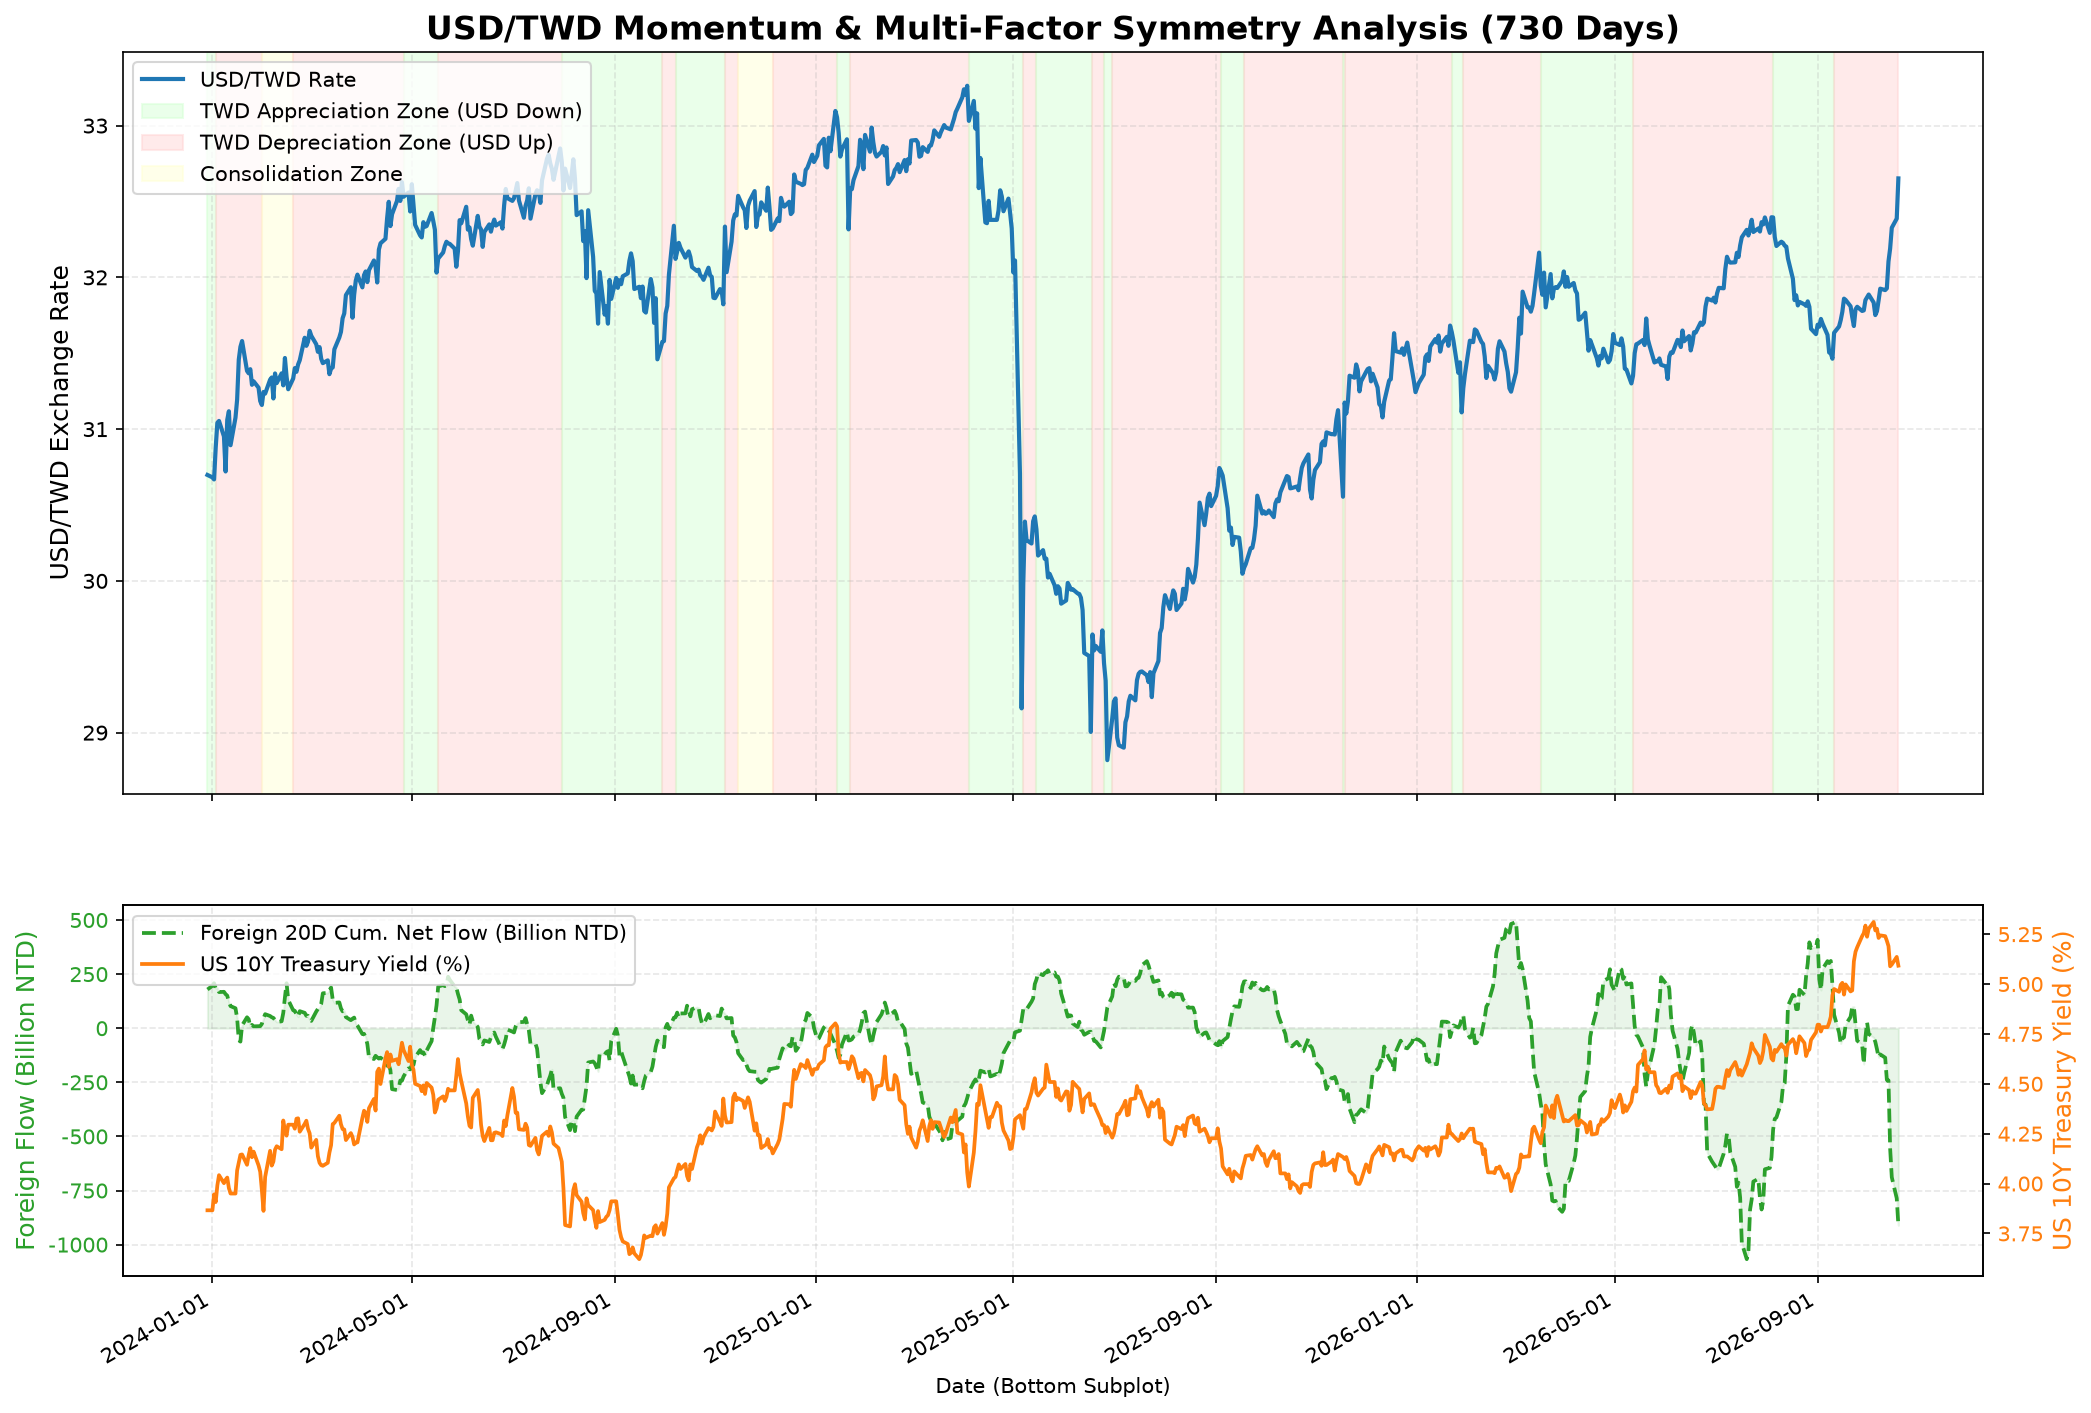
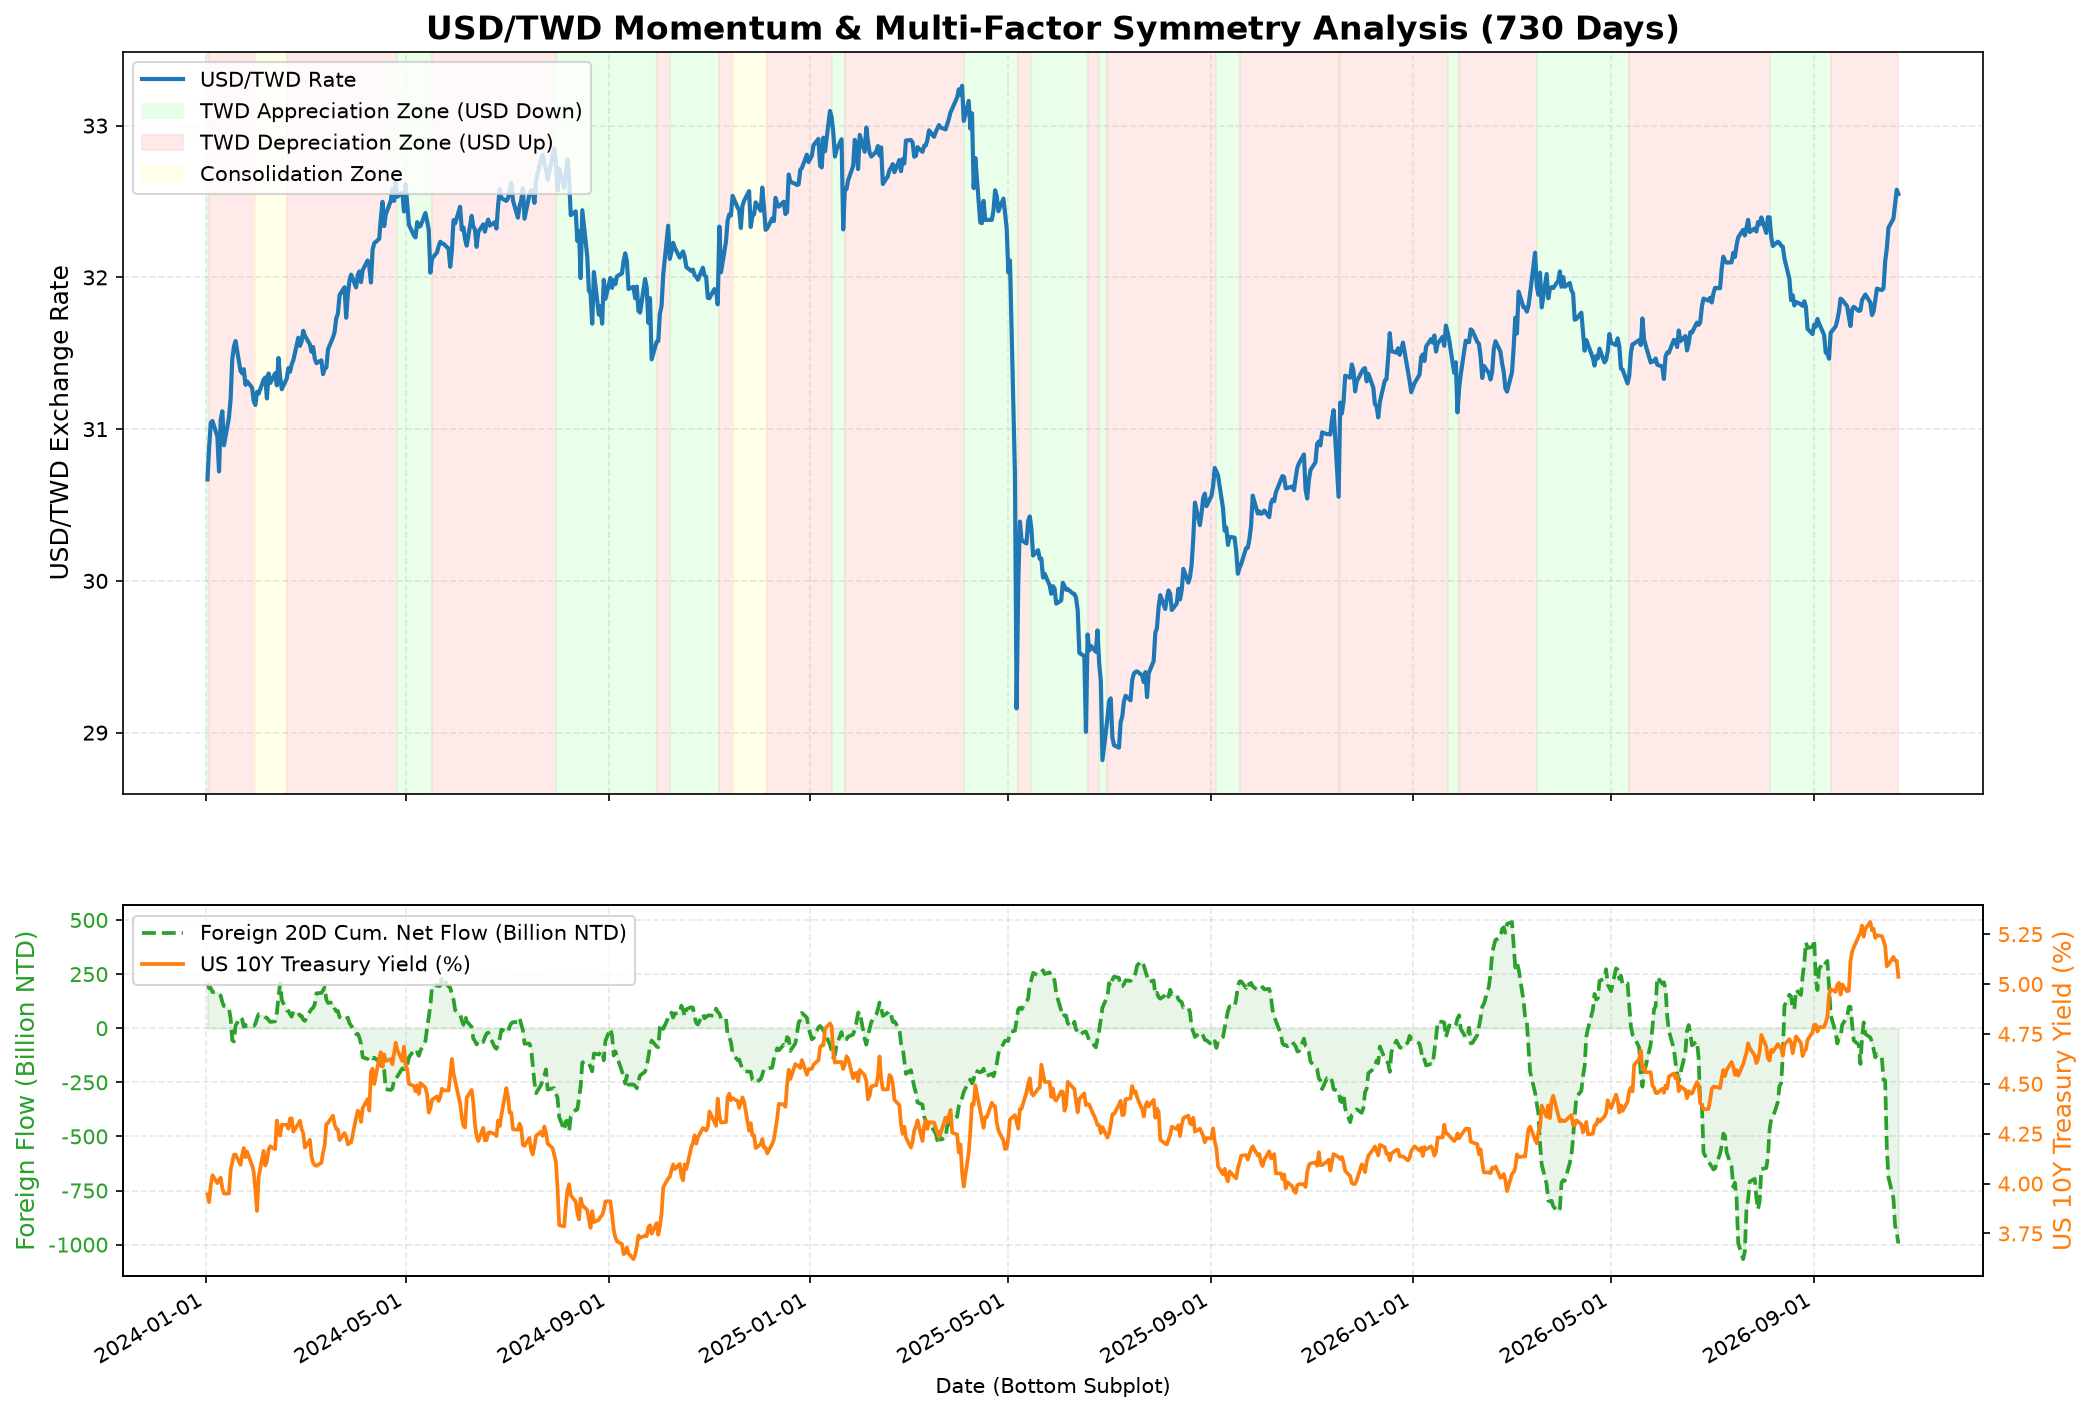
Auto-update USD/TWD momentum report (2026-10-22)

diff --git a/usdtwd.html b/usdtwd.html
@@ -115,17 +115,17 @@
 ════════════════════════════════════════════════════════════════════════════════
 
 【1. 跨市場與籌碼因子即時監控】
-  * 外資近 5 日累積淨買賣超: -525.02 十億元新台幣
-  * 外資近 20 日累積淨買賣超: -910.77 十億元新台幣
-  * 美元指數 DXY: 101.74 (近5日變動: -0.81)
-  * 美元兌韓元 KRW: 1327.58 (近5日變動: -12.73)
-  * 美國 10 年期公債殖利率: 5.092% (近5日變動: -0.098%)
+  * 外資近 5 日累積淨買賣超: -281.77 十億元新台幣
+  * 外資近 20 日累積淨買賣超: -994.46 十億元新台幣
+  * 美元指數 DXY: 101.77 (近5日變動: -0.07)
+  * 美元兌韓元 KRW: 1325.58 (近5日變動: -15.37)
+  * 美國 10 年期公債殖利率: 5.036% (近5日變動: -0.062%)
 --------------------------------------------------------------------------------
 【2. 歷史波段對稱統計 (台幣貶值波段 (美元兌台幣上漲))】
   * 歷史波段數: 37 次
   * 平均波動幅度: 2.91% (中位數: 2.15%)
-  * 平均持續天數: 34.6 天
-  * 平均波段外資流入: -203.51 十億元
+  * 平均持續天數: 34.7 天
+  * 平均波段外資流入: -205.66 十億元
 --------------------------------------------------------------------------------
 【2. 歷史波段對稱統計 (台幣升值波段 (美元兌台幣下跌))】
   * 歷史波段數: 29 次
@@ -136,21 +136,21 @@
 【3. 當前 USD/TWD 波段評估與等幅對稱投影】
   * 當前大波段型態: 上漲
   * 波段起始日期: 2026-09-11 (起始匯率: 31.635)
-  * 波段最高點 (Peak): 32.652
+  * 波段最高點 (Peak): 32.578
   * 波段最低點 (Trough): 31.635
-  * 當前最新匯率 (2026-10-20): 32.652
-  * 本波段累計變動: 3.21% (共 +1.017 元)
-  * 目前已持續交易日: 27 天
-  * 本波段外資累積淨流入: -952.70 十億元
+  * 當前最新匯率 (2026-10-22): 32.549
+  * 本波段累計變動: 2.98% (共 +0.943 元)
+  * 目前已持續交易日: 29 天
+  * 本波段外資累積淨流入: -1032.04 十億元
 
   [短線動能預警 (0.6% 領先燈號)]
   * 短線波段狀態: 台幣短線轉弱 (匯率自低點反彈)
   * 短線轉折基準: 2026-09-10 (匯率基準價 31.464)
-  * 短線累計幅度: +3.78% (28 天)
+  * 短線累計幅度: +3.45% (30 天)
 
   &gt;&gt;&gt; 【台幣貶值波段對稱投影預估 (以波段最低點計算)】 &lt;&lt;&lt;
   * 投影基準點 (本波段最低谷): 31.635
-  1. 溫和型貶值滿足點 (歷史平均 +2.91%): 【32.557】 (已超越)
+  1. 溫和型貶值滿足點 (歷史平均 +2.91%): 【32.555】 (尚未抵達)
   2. 標準型貶值滿足點 (歷史中位數 +2.15%): 【32.315】 (已超越)
 
   💡 操作與避險決策建議：
